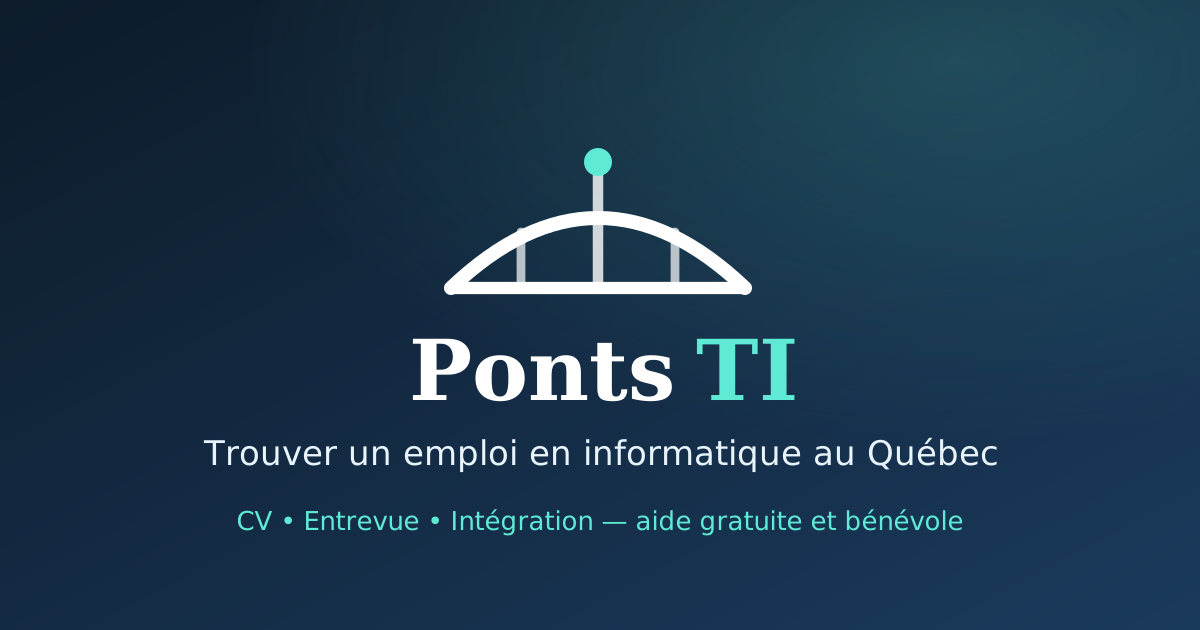
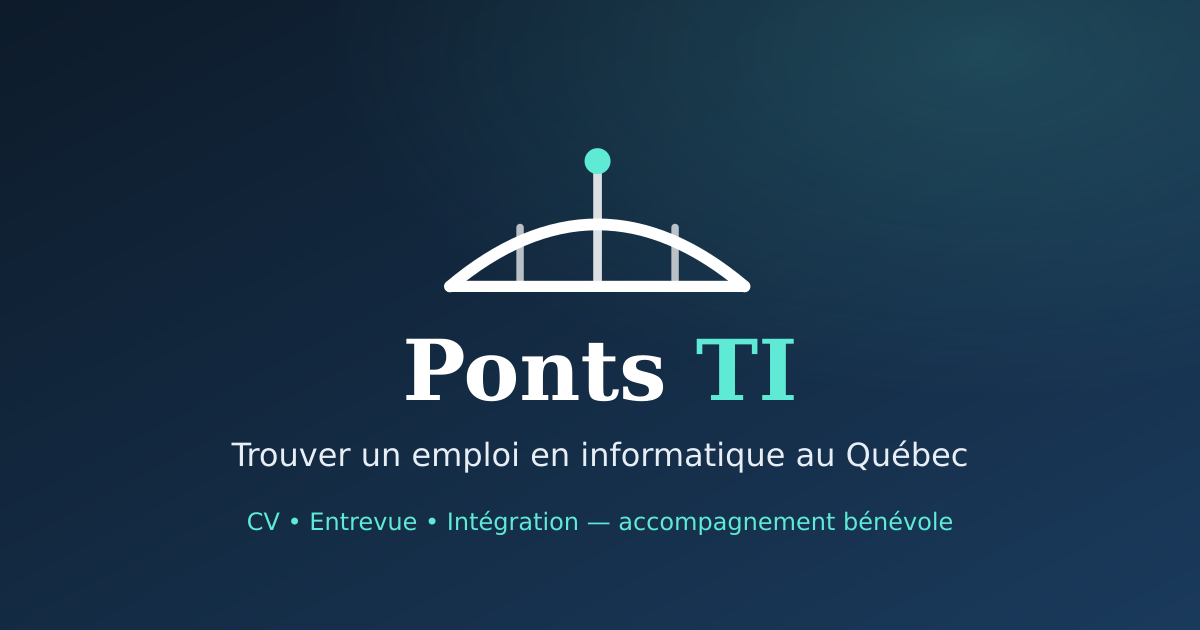
Add files via upload

diff --git a/index.html b/index.html
@@ -17,8 +17,8 @@
          SEO PRIMAIRE
          Cible : immigrants TI, reconversion, PVT, Montréal
     ══════════════════════════════════════════════════ -->
-    <title>Ponts TI | Aide gratuite emploi informatique Québec — CV, entrevue, intégration</title>
-    <meta name="description" content="Aide 100 % gratuite pour trouver un emploi en informatique au Québec. Révision CV format québécois, préparation entrevue TI, conseils marché Montréal. Pour immigrants francophones (Algérie, Maroc, France, Tunisie, Haïti), PVTistes et personnes en reconversion. Bénévole, 13 ans d'expérience.">
+    <title>Ponts TI | Aide bénévole emploi informatique Québec — CV, entrevue, intégration</title>
+    <meta name="description" content="Aide bénévole pour trouver un emploi en informatique au Québec. Révision CV format québécois, préparation entrevue TI, conseils marché Montréal. Pour toute personne qui veut intégrer le marché TI : nouveaux arrivants, PVTistes, reconversion, débutants. Par un analyste TI à Montréal.">
     <meta name="keywords" content="emploi informatique Québec, emploi TI Montréal, aide immigrant TI Québec, CV développeur format québécois, entrevue technique Montréal, reconversion informatique Québec, PVT informatique Canada, immigrant Algérie TI Québec, immigrant Maroc emploi informatique, trouver emploi TI sans expérience canadienne, salaire développeur Montréal, marché travail informatique Québec 2026, mentor TI bénévole Montréal, généricité Java wildcards PECS, recyclage ordinateur Québec, certifications TI valeur, vibe coding Québec, IA développeur entrevue Montréal, GitHub Copilot Cursor emploi TI, IA chiffrement RSA, cryptographie post-quantique, emploi cybersécurité Québec">
     <meta name="author" content="Hilal Goutas — Analyste informatique, Montréal">
     <meta name="robots" content="index, follow, max-snippet:-1, max-image-preview:large, max-video-preview:-1">
@@ -44,19 +44,19 @@
     <!-- Open Graph -->
     <meta property="og:type"         content="website">
     <meta property="og:url"          content="https://pontsti.github.io/">
-    <meta property="og:title"        content="Ponts TI | Aide gratuite emploi informatique Québec 🇨🇦">
-    <meta property="og:description"  content="Aide gratuite pour trouver un emploi en informatique au Québec. CV, entrevue, intégration. Pour immigrants francophones, PVT, reconversion. Bénévole, 13 ans d'expérience à Montréal.">
+    <meta property="og:title"        content="Ponts TI | Aide bénévole emploi informatique Québec 🇨🇦">
+    <meta property="og:description"  content="Aide bénévole pour trouver un emploi en informatique au Québec. CV, entrevue, intégration. Pour nouveaux arrivants, PVTistes, reconversion et débutants en TI.">
     <meta property="og:locale"       content="fr_CA">
     <meta property="og:site_name"    content="Ponts TI">
     <meta property="og:image"        content="https://pontsti.github.io/og-image.png">
     <meta property="og:image:width"  content="1200">
     <meta property="og:image:height" content="630">
-    <meta property="og:image:alt"    content="Ponts TI — Aide gratuite emploi informatique Québec pour immigrants francophones">
+    <meta property="og:image:alt"    content="Ponts TI — Aide bénévole emploi informatique Québec">
 
     <!-- Twitter Card -->
     <meta name="twitter:card"        content="summary_large_image">
-    <meta name="twitter:title"       content="Ponts TI | Aide gratuite emploi TI Québec 🇨🇦">
-    <meta name="twitter:description" content="CV, entrevue, intégration TI au Québec. Pour immigrants francophones, PVT, reconversion. Bénévole, 13 ans d'expérience Montréal.">
+    <meta name="twitter:title"       content="Ponts TI | Aide bénévole emploi TI Québec 🇨🇦">
+    <meta name="twitter:description" content="CV, entrevue, intégration TI au Québec. Pour nouveaux arrivants, PVTistes, reconversion et débutants en TI. Projet bénévole, Montréal.">
     <meta name="twitter:image"       content="https://pontsti.github.io/og-image.png">
 
     <meta name="theme-color" content="#0d1b2a">
@@ -72,7 +72,7 @@
       "@type": "Person",
       "name": "Hilal Goutas",
       "jobTitle": "Analyste informatique — Mentor bénévole",
-      "description": "Professionnel TI offrant une aide gratuite aux immigrants francophones pour trouver un emploi en informatique au Québec. Originaire d'Algérie, 13 ans d'expérience à Montréal.",
+      "description": "Analyste informatique à Montréal qui accompagne bénévolement des personnes cherchant un emploi en informatique au Québec.",
       "email": "goutas.hilal@gmail.com",
       "url": "https://pontsti.github.io/",
       "sameAs": [
@@ -118,7 +118,7 @@
       "name": "Ponts TI",
       "alternateName": "Ponts TI — Aide emploi informatique Québec",
       "url": "https://pontsti.github.io/",
-      "description": "Aide gratuite pour trouver un emploi en informatique au Québec. Révision CV, préparation entrevue, conseils intégration marché TI Montréal. Pour immigrants, PVT, reconversion.",
+      "description": "Aide bénévole pour trouver un emploi en informatique au Québec. Révision CV, préparation entrevue, conseils intégration marché TI Montréal. Pour nouveaux arrivants, PVTistes, reconversion et débutants en TI.",
       "inLanguage": "fr-CA",
       "author": {
         "@type": "Person",
@@ -132,13 +132,12 @@
     {
       "@context": "https://schema.org",
       "@type": "Service",
-      "name": "Mentorat emploi TI Québec — Aide gratuite immigrants francophones",
-      "description": "Service bénévole d'aide à l'emploi en informatique pour immigrants francophones, PVTistes et personnes en reconversion : révision CV format québécois, préparation entrevue TI, conseils intégration marché Montréal.",
+      "name": "Mentorat emploi TI Québec — Aide bénévole",
+      "description": "Service bénévole d'aide à l'emploi en informatique pour toute personne qui souhaite intégrer le marché TI au Québec (nouveaux arrivants, PVTistes, reconversion, débutants) : révision CV format québécois, préparation entrevue TI, conseils intégration marché Montréal.",
       "provider": {"@type": "Person", "name": "Hilal Goutas"},
       "areaServed": {"@type": "Place", "name": "Montréal, Québec, Canada"},
-      "audience": {"@type": "Audience", "audienceType": "Immigrants francophones, PVTistes, reconversion professionnelle"},
+      "audience": {"@type": "Audience", "audienceType": "Nouveaux arrivants, PVTistes, personnes en reconversion, finissants et débutants en TI"},
       "serviceType": "Mentorat emploi informatique",
-      "offers": {"@type": "Offer", "price": "0", "priceCurrency": "CAD", "description": "Service 100 % gratuit et bénévole"},
       "availableLanguage": ["fr", "ar", "en"]
     }
     </script>
@@ -244,7 +243,7 @@
         },
         {
           "@type": "BlogPosting",
-          "headline": "CV développeur et analyste TI au Québec : guide complet format québécois 2026",
+          "headline": "CV développeur et analyste TI au Québec : guide pratique au format québécois 2026",
           "url": "https://pontsti.github.io/articles/cv-developpeur-analyste-format-quebecois.html",
           "datePublished": "2026-05-01",
           "dateModified": "2026-05-01",
@@ -577,7 +576,7 @@
                 </span>
                 <span class="cred-item">
                     <svg viewBox="0 0 24 24" fill="none" stroke="currentColor" stroke-width="2"><polyline points="20 6 9 17 4 12"/></svg>
-                    Service 100&nbsp;% gratuit et bénévole
+                    Projet bénévole
                 </span>
             </div>
         </div>
@@ -586,9 +585,9 @@
     <!-- Bandeau SEO longue traîne -->
     <div class="seo-intro" aria-hidden="true">
         <div class="container">
-            Aide gratuite emploi TI au <strong>Québec</strong> pour <strong>immigrants francophones</strong>,
-            <strong>PVTistes</strong> et personnes en <strong>reconversion</strong> —
-            Algérie · Maroc · France · Tunisie · Haïti · Sénégal · et tous parcours
+            Aide bénévole emploi TI au <strong>Québec</strong> pour <strong>nouveaux arrivants</strong>,
+            <strong>PVTistes</strong>, personnes en <strong>reconversion</strong> et <strong>débutants en TI</strong> —
+            d'ici comme d'ailleurs
         </div>
     </div>
 
@@ -620,26 +619,26 @@
                 <div class="author-info">
                     <strong>Hilal Goutas</strong>
                     <p class="author-role">Analyste informatique · Montréal</p>
-                    <p>Originaire d'Algérie · Passé par Grenoble · Au Québec depuis 2013 · 13 ans en TI · Mentor bénévole</p>
+                    <p>Au Québec depuis 2013 · Mentor bénévole</p>
                 </div>
             </div>
 
-            <p>J'offre une <strong>aide gratuite</strong> à toute personne souhaitant <strong>trouver un emploi en informatique au Québec</strong>. Que vous soyez <strong>nouvel arrivant</strong>, <strong>PVTiste</strong>, en <strong>reconversion professionnelle</strong>, Québécois débutant en TI, ou simplement en recherche de conseils pour le <strong>marché du travail TI à Montréal</strong>. Ma démarche se veut humaine et inclusive — ouverte à tous les parcours, que vous veniez d'Algérie, de France, du Maroc, de Tunisie, d'Haïti, du Sénégal ou d'ailleurs.</p>
+            <p>J'offre un <strong>accompagnement bénévole</strong> à toute personne souhaitant <strong>trouver un emploi en informatique au Québec</strong>. Que vous soyez <strong>nouvel arrivant</strong>, <strong>PVTiste</strong>, en <strong>reconversion professionnelle</strong>, finissant ou débutant en TI, ou simplement en recherche de conseils pour le <strong>marché du travail TI à Montréal</strong>. Ma démarche se veut humaine et inclusive — ouverte à tous les parcours, d'ici comme d'ailleurs.</p>
             <p>J'écris aussi des <strong>articles</strong> sur les technologies de l'information, l'intégration professionnelle et le marché TI québécois — une façon de partager ce que j'apprends et d'échanger avec la communauté.</p>
 
             <div class="info-box">
-                <h4>Ce que je propose gratuitement</h4>
+                <h4>Ce que je propose</h4>
                 <p><strong>Révision de CV</strong> au format québécois, <strong>préparation aux entrevues</strong> techniques, conseils sur le <strong>marché de l'emploi TI</strong> et comment <strong>trouver un emploi sans expérience canadienne</strong>. C'est du partage d'expérience entre professionnels, pas un service de placement.</p>
                 <p>Je travaille à temps plein et j'ai une vie de famille. Je réponds aux demandes du mieux que je peux, le soir et la fin de semaine.</p>
             </div>
 
             <div class="parcours">
-                <div class="parcours-item"><strong>13 ans</strong><span>en informatique au Québec</span></div>
-                <div class="parcours-item"><strong>Algérie — France — Canada</strong><span>Mon parcours</span></div>
-                <div class="parcours-item"><strong>Bénévole</strong><span>et 100 % gratuit</span></div>
+                <div class="parcours-item"><strong>Depuis 2013</strong><span>en informatique au Québec</span></div>
+                <div class="parcours-item"><strong>Mon parcours</strong><span><a href="articles/parcours-algerie-quebec.html">Lire l'article</a></span></div>
+                <div class="parcours-item"><strong>Bénévole</strong><span>Sur mon temps libre</span></div>
             </div>
 
-            <div class="warning-box"><p><strong>Attention aux arnaques :</strong> Si quelqu'un vous demande de l'argent en mon nom, c'est une fraude. Je ne demande jamais d'argent.</p></div>
+            <div class="warning-box"><p><strong>Attention aux arnaques :</strong> Je ne vous contacterai jamais pour vous demander un paiement. Si quelqu'un vous réclame de l'argent en mon nom, c'est une fraude. Écrivez-moi uniquement à goutas.hilal@gmail.com.</p></div>
             <p style="text-align: center; margin-top: var(--space-8);"><a href="#contact" class="btn">Me contacter</a></p>
         </section>
 
@@ -723,7 +722,7 @@
                     <h3 class="article-title">
                         Reconversion en informatique au Québec en 2026 : quel chemin choisir selon votre profil
                     </h3>
-                    <p>Bagage technique, certificat HEC en gestion de projets, AEC ou DEC : quel parcours selon votre profil, et la vérité sur les fausses promesses du secteur face à l'IA.</p>
+                    <p>Bagage technique, certificat HEC en gestion de projets, AEC ou DEC : quel parcours selon votre profil, et ce qu'il faut savoir sur les fausses promesses du secteur face à l'IA.</p>
                     <a href="articles/reconversion-informatique-quebec.html" class="read-more">Lire l'article</a>
                 </article>
 
@@ -783,7 +782,7 @@
                          alt="Personne rédigeant un CV sur ordinateur — format québécois emploi informatique TI"
                          class="article-card-img" loading="lazy" width="800" height="450">
                     <div class="article-meta"><time datetime="2026-05">Mai 2026</time><span class="read-time">12 min</span></div>
-                    <h3 class="article-title">CV développeur et analyste TI au Québec : guide complet format québécois</h3>
+                    <h3 class="article-title">CV développeur et analyste TI au Québec : guide pratique au format québécois</h3>
                     <p>Structure, longueur, compétences techniques, erreurs à éviter. Le guide pratique pour rédiger un CV en informatique qui passe les ATS et convainc les recruteurs québécois.</p>
                     <a href="articles/cv-developpeur-analyste-format-quebecois.html" class="read-more">Lire l'article</a>
                 </article>
@@ -976,12 +975,11 @@
 
     <footer>
         <div class="container">
-            <p><strong>Ponts TI</strong> — Aide gratuite emploi informatique Québec</p>
+            <p><strong>Ponts TI</strong> — Aide bénévole emploi informatique Québec</p>
             <p>Un projet bénévole de <strong>Hilal Goutas</strong> · Analyste informatique · Montréal, Québec</p>
             <p style="font-size: 0.8rem; color: var(--text-muted); margin-top: var(--space-4); line-height: 1.8;">
-                Ponts TI aide les <strong>immigrants francophones</strong> (Algérie, Maroc, France, Tunisie, Haïti, Sénégal),
-                les <strong>PVTistes</strong> et les personnes en <strong>reconversion professionnelle</strong>
-                à trouver un <strong>emploi en informatique au Québec</strong>.
+                Ponts TI accompagne <strong>toute personne qui souhaite intégrer le marché de l'emploi en informatique au Québec</strong> :
+            nouveaux arrivants, PVTistes, personnes en reconversion, finissants et débutants en TI.
             </p>
             <p style="font-size: 0.8rem; margin-top: var(--space-3);">
                 <a href="articles/marche-ti-quebec-2026.html">Marché TI Québec 2026</a> ·

diff --git a/ressources.html b/ressources.html
@@ -349,11 +349,11 @@
     
     <footer>
     <div class="container">
-        <p><strong>Ponts TI</strong> — Aide gratuite emploi informatique Québec</p>
+        <p><strong>Ponts TI</strong> — Aide bénévole emploi informatique Québec</p>
         <p>Un projet bénévole de <strong>Hilal Goutas</strong> · Analyste informatique · Montréal, Québec</p>
         <p style="font-size: 0.8rem; color: var(--text-muted); margin-top: var(--space-4); line-height: 1.8;">
-            Ponts TI aide les <strong>immigrants francophones</strong>, les <strong>PVTistes</strong> et les personnes en
-            <strong>reconversion professionnelle</strong> à trouver un <strong>emploi en informatique au Québec</strong>.
+            Ponts TI accompagne <strong>toute personne qui souhaite intégrer le marché de l'emploi en informatique au Québec</strong> :
+            nouveaux arrivants, PVTistes, personnes en reconversion, finissants et débutants en TI.
         </p>
         <p style="font-size: 0.8rem; margin-top: var(--space-3);">
             <a href="articles/marche-ti-quebec-2026.html">Marché TI Québec 2026</a> ·
